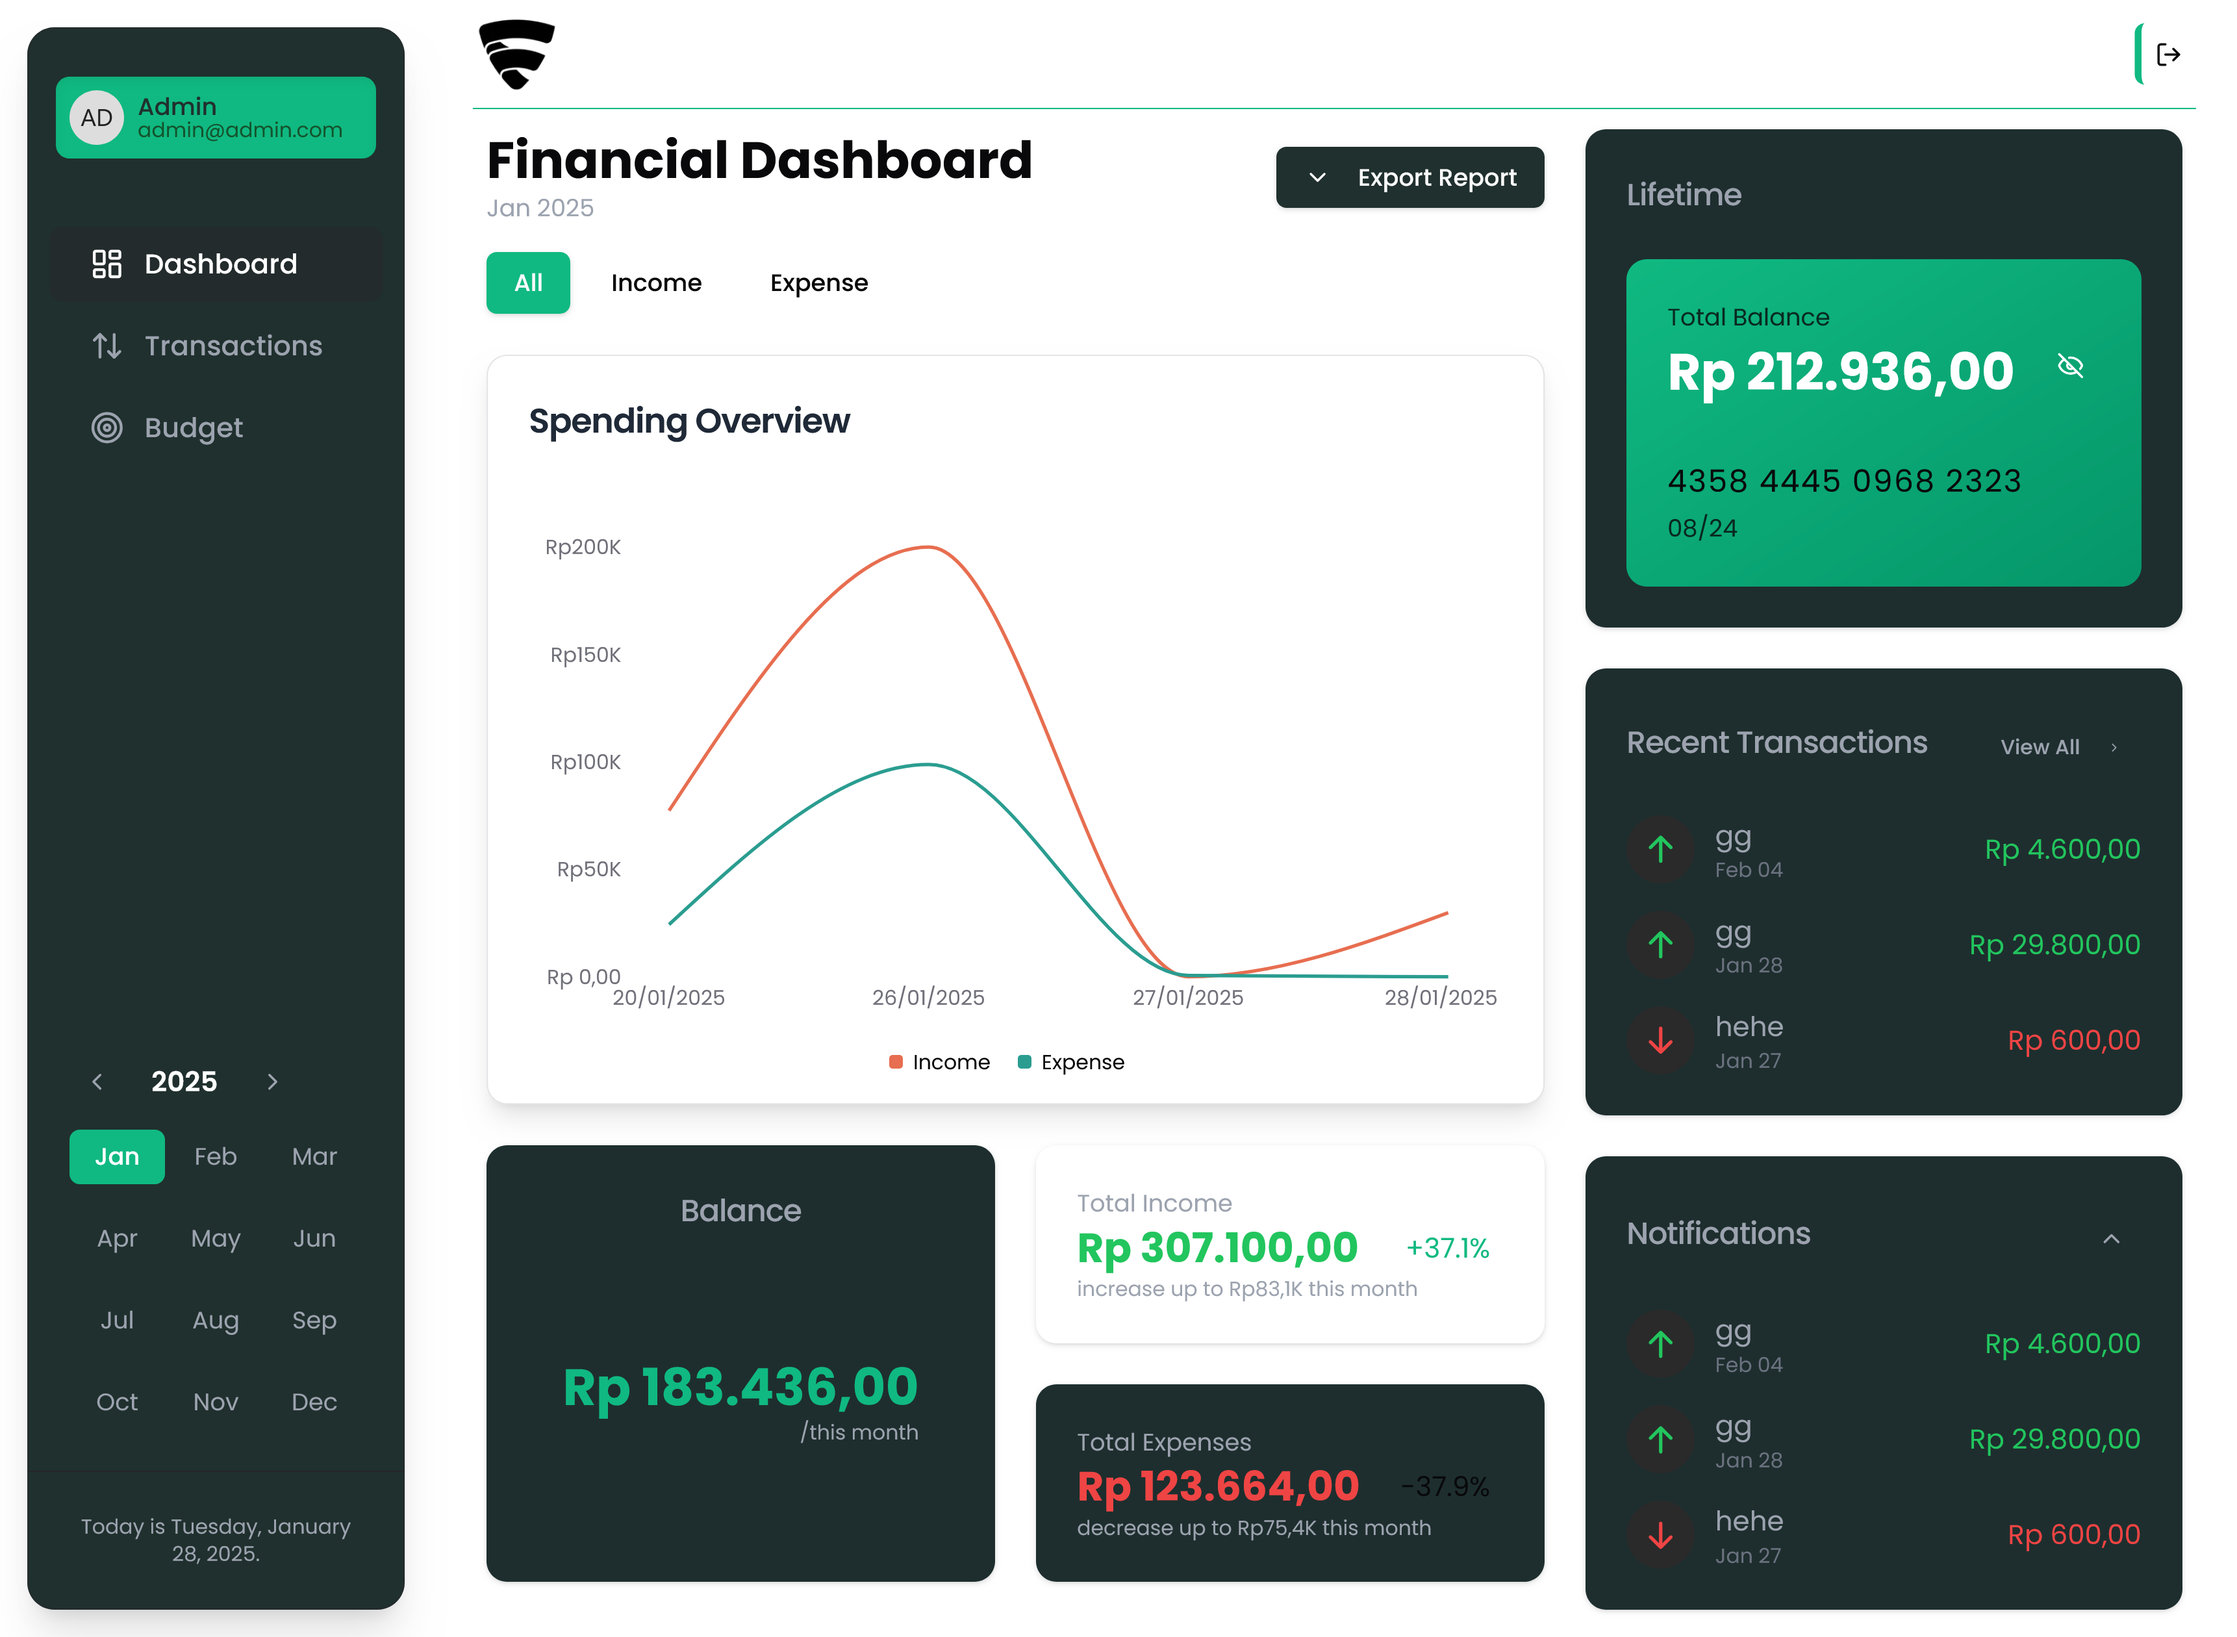
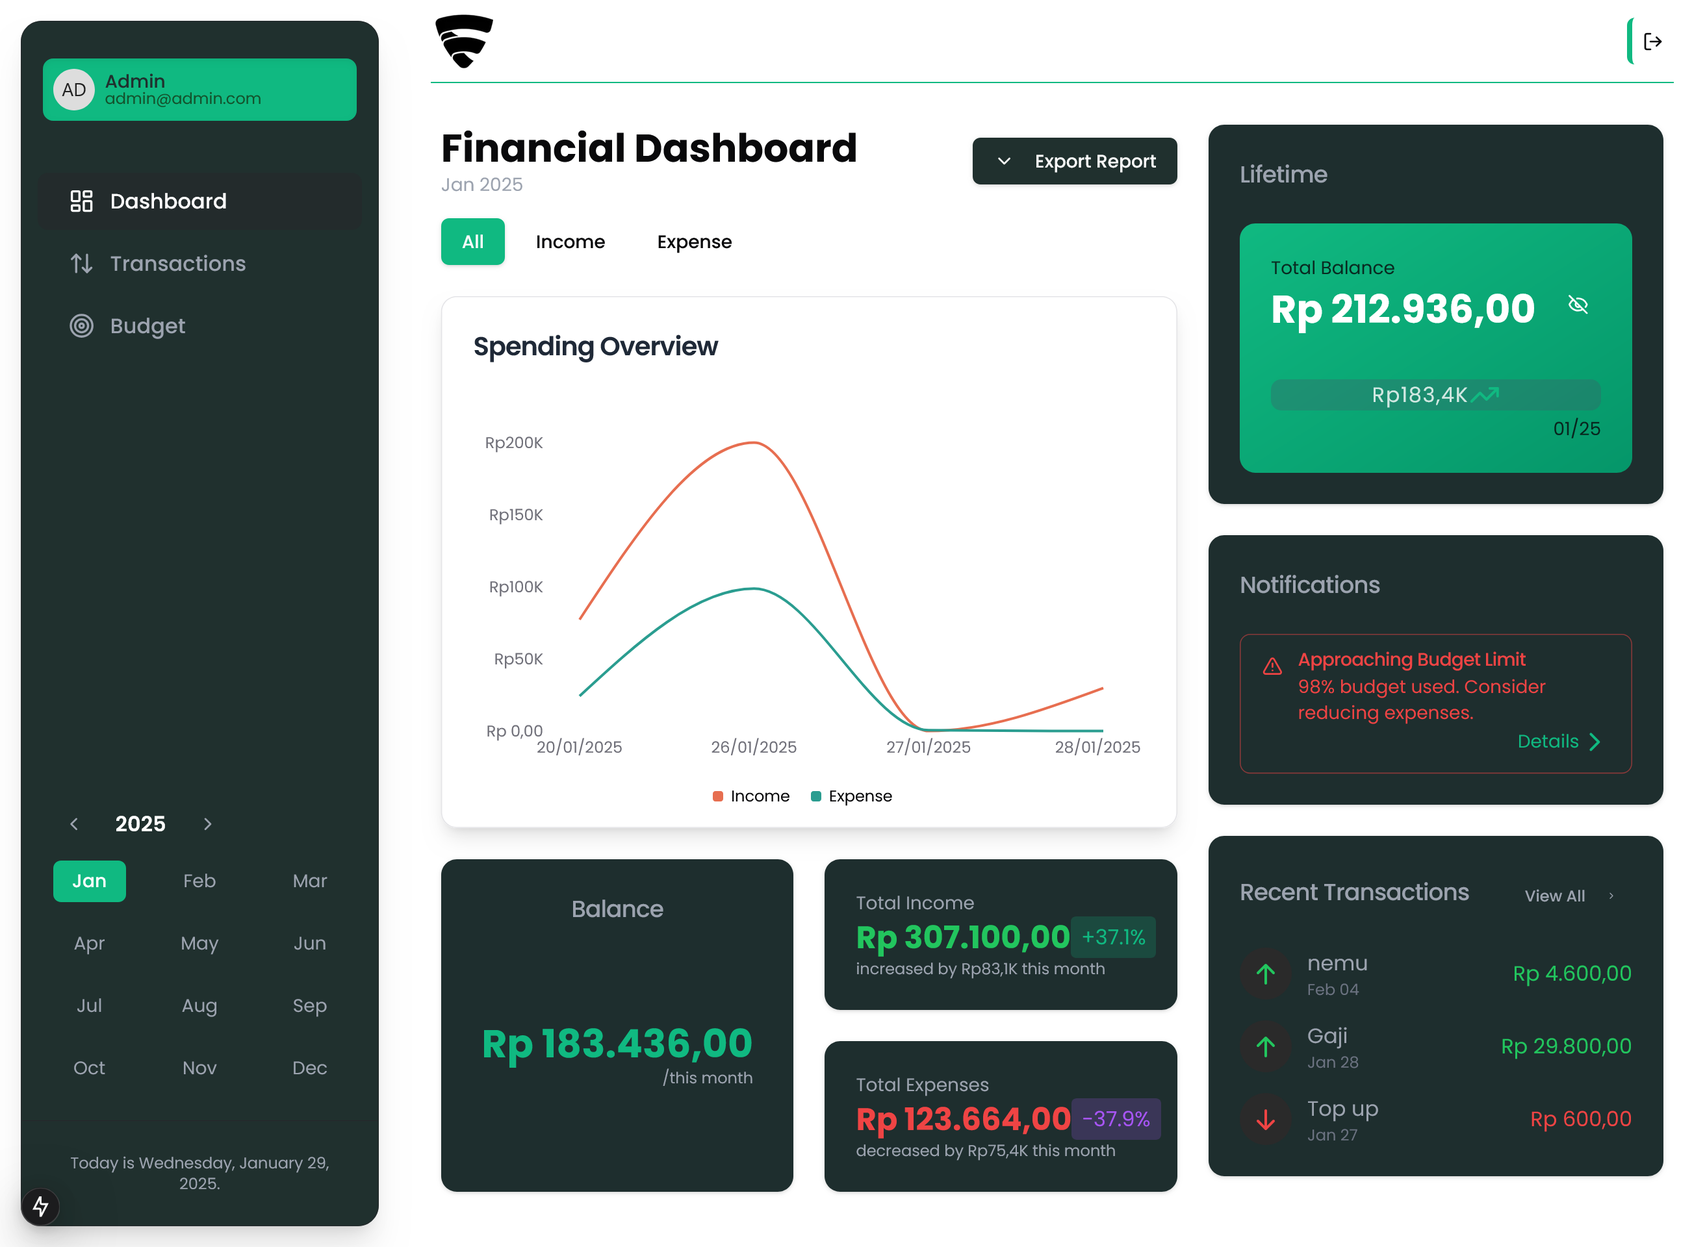
feat: improve mobile navigation and UI enhancements

diff --git a/src/components/navigation/mobile/mobile-nav.tsx b/src/components/navigation/mobile/mobile-nav.tsx
@@ -9,6 +9,10 @@ import { cn } from "@/lib/utils";
 import { MobileNavItem } from "./mobile-nav-item";
 import { MonthDropdown } from "./month-dropdown";
 import { useState } from "react";
+import { Dialog, DialogContent, DialogHeader, DialogTitle, DialogTrigger } from "@/components/ui/dialog";
+import { Button } from "@/components/ui/button";
+import { TransactionForm } from "@/components/transactions/transaction-form";
+import Link from "next/link";
 
 
 interface MobileNavProps {
@@ -60,30 +64,36 @@ export function MobileNav({
           className
         )}
       >
-        <div className="mx-4 mb-4">
+        <div className="mx-4 mb-2">
           <div className="grid grid-cols-5 items-center bg-green-bar/60 backdrop-blur-lg rounded-2xl p-4 shadow-lg border border-green-bar/5">
             {navItems.slice(0, 2).map((item) => (
-              <MobileNavItem key={item.label} isActive={pathname === item.href} {...item} />
+              <MobileNavItem
+                key={item.label}
+                isActive={pathname === item.href}
+                {...item}
+              />
             ))}
 
-            <div className="relative flex items-center justify-center">
-              <button
-                className="absolute left-1/2 -translate-x-1/2 translate-y-4 bottom-0 flex items-center justify-center w-14 h-14 bg-zinc-700 rounded-xl shadow-lg hover:bg-zinc-800 transition-colors"
-                aria-label="Add new"
-              >
-                <Plus className="w-7 h-7 text-white" />
-              </button>
+            <div className=" flex items-center justify-center">
+              <Link href="/transactions?action=add" passHref>
+                <button
+                  className="flex items-center justify-center w-14 h-14 bg-zinc-700 rounded-xl shadow-lg hover:bg-zinc-800 transition-colors"
+                  aria-label="Add new"
+                >
+                  <Plus className="w-7 h-7 text-white" />
+                </button>
+              </Link>
             </div>
 
             {navItems.slice(2).map((item) => (
-              <MobileNavItem 
-                key={item.label} 
+              <MobileNavItem
+                key={item.label}
                 isActive={
-                  item.label === "Budget" 
-                    ? pathname === item.href 
+                  item.label === "Budget"
+                    ? pathname === item.href
                     : isMonthDropdownOpen
-                } 
-                {...item} 
+                }
+                {...item}
               />
             ))}
           </div>

diff --git a/src/app/(dashboard)/transactions/page.tsx b/src/app/(dashboard)/transactions/page.tsx
@@ -4,8 +4,11 @@ import { transactionsApi, type Transaction } from '@/lib/api';
 import { TransactionsFilters } from '@/components/transactions/trasaction-filter';
 import { TransactionsTable } from '@/components/transactions/transaction-table';
 import { TransactionsHeader } from '@/components/transactions/transaction-header';
+import { useRouter, useSearchParams } from 'next/navigation';
 
 export default function TransactionsPage() {
+  const searchParams = useSearchParams();
+  const router = useRouter();
   const [transactions, setTransactions] = useState<Transaction[]>([]);
   const [filteredTransactions, setFilteredTransactions] = useState<Transaction[]>([]);
   const [isDialogOpen, setIsDialogOpen] = useState(false);
@@ -15,6 +18,22 @@ export default function TransactionsPage() {
     key: 'date' as keyof Transaction,
     direction: 'desc' as 'asc' | 'desc'
   });
+
+  useEffect(() => {
+    if (searchParams.get('action') === 'add') {
+      setIsDialogOpen(true);
+    }
+  }, [searchParams]);
+
+  const handleDialogOpenChange = (open: boolean) => {
+    setIsDialogOpen(open);
+    
+    if (!open) {
+      const params = new URLSearchParams(searchParams);
+      params.delete('action');
+      router.replace(`/transactions?${params.toString()}`, { scroll: false });
+    }
+  };
 
   const fetchTransactions = async () => {
     try {
@@ -75,10 +94,10 @@ export default function TransactionsPage() {
   };
 
   return (
-    <div className="space-y-6">
+    <div className="space-y-6  md:pb-4 pb-[120px]">
       <TransactionsHeader
         isDialogOpen={isDialogOpen}
-        setIsDialogOpen={setIsDialogOpen}
+        setIsDialogOpen={handleDialogOpenChange}
         onTransactionAdded={fetchTransactions}
       />
       <TransactionsFilters

diff --git a/src/components/dashboard/total-balance-card.tsx b/src/components/dashboard/total-balance-card.tsx
@@ -10,7 +10,7 @@ interface Summary {
   
 interface BalanceCardProps {
     summary: Summary;
-    formatRupiah: (amount: number) => string;
+    formatRupiah: (amount: number, options?: { abbreviate?: boolean }) => string;
 }
 
 const BalanceCard: React.FC<BalanceCardProps> = ({ summary, formatRupiah }) => {
@@ -49,15 +49,15 @@ const BalanceCard: React.FC<BalanceCardProps> = ({ summary, formatRupiah }) => {
               </div>
             </div>
             <div>
-              <div className='flex'>
+              <div className='flex rounded-lg bg-slate-600/30 justify-center'>
 
-              <p className="text-sm md:text-base tracking-wider">
-                {formatRupiah(summary.cumulativeBalanceDifference)}
+              <p className="text-sm md:text-base tracking-wider text-white/80">
+                {formatRupiah(summary.cumulativeBalanceDifference,{abbreviate: true})}
               </p>
               {summary.cumulativeBalanceDifference > 0 && <TrendingUp className='text-green-button' />}
               {summary.cumulativeBalanceDifference < 0 && <TrendingDown className='text-red' />}
               </div>
-              <p className="text-sm opacity-80 mt-1">08/24</p>
+              <p className="text-sm opacity-80 mt-1 text-end">{new Date().toLocaleDateString('id-ID', {month:'2-digit', year:'2-digit'})}</p>
             </div>
           </div>
         </div>

diff --git a/src/components/header.tsx b/src/components/header.tsx
@@ -16,7 +16,7 @@ export function Header() {
   return (
     <header className="h-16 border-b border-green-button flex items-center justify-between mx-6">
       <a href="https://www.freepnglogos.com/images/f-letter-logo-png-1555.html">
-      <Image alt='logo' width={52} height={52} src={"/icon-192x192.png"} />
+      <Image alt='logo' width={52} height={52} src={"/assets/icon-192x192.png"} />
       </a>
       <Button className='border-l-4 border-green-button' size="icon" variant="ghost" onClick={handleLogout}>
         <LogOut />

diff --git a/src/app/(dashboard)/budget/page.tsx b/src/app/(dashboard)/budget/page.tsx
@@ -66,7 +66,7 @@ export default function BudgetPage() {
   if (loading) return <div>Loading...</div>;
 
   return (
-    <div className="space-y-6">
+    <div className="space-y-6 md:pb-4 pb-[120px]">
       <div className="flex items-center justify-between">
         <div>
           <h1 className="text-2xl md:text-3xl font-bold">Budget Tracker</h1>
